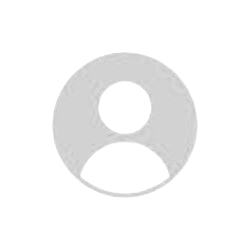
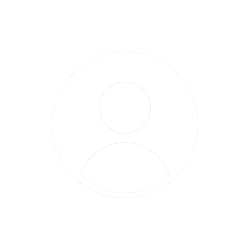
Disabled Rotate Feature

Changed region(s): [[0.196, 0.196, 0.812, 0.812]]

diff --git a/App.tsx b/App.tsx
@@ -6,7 +6,7 @@
  */
 
 import React, { useState, useEffect } from 'react';
-import { SafeAreaView, ScrollView, StatusBar, StyleSheet, Text, TextInput, Button, useColorScheme, View, TouchableOpacity, Image } from 'react-native';
+import { SafeAreaView, ScrollView, StatusBar, StyleSheet, Text, TextInput, Button, useColorScheme, View, TouchableOpacity, Image, Dimensions } from 'react-native';
 import AsyncStorage from '@react-native-async-storage/async-storage';
 
 type SectionProps = {
@@ -151,38 +151,20 @@ function App(): React.JSX.Element {
                 <Text style={styles.greetingText}>Hello {userName}!</Text>
                 <Text style={styles.readyText}>Ready to workout?</Text>
               </View>
-              <Image source={require('./assets/profile.jpg')} style={styles.profilePicture} />
+              <Image source={require('./assets/profile.png')} style={styles.profilePicture} />
             </View>
             <View style={styles.chooseTrainingContainer}>
               <Text style={styles.chooseTrainingText}>Choose the Session</Text>
             </View>
-            <View style={styles.workoutCard}>
+            <TouchableOpacity onPress={() => navigateTo('Running')}>
               <Image source={require('./assets/running.png')} style={styles.workoutImage} />
-              <View style={styles.workoutDetails}>
-                <Text style={styles.workoutCategorie}>Running</Text>
-                <Text style={styles.workoutText}>• Warm-up</Text>
-                <Text style={styles.workoutText}>• Interval Training</Text>
-                <Text style={styles.workoutText}>• Cool-down</Text>
-              </View>
-            </View>
-            <View style={styles.workoutCard}>
+            </TouchableOpacity>
+            <TouchableOpacity onPress={() => navigateTo('Lifting')}>
               <Image source={require('./assets/lifting.png')} style={styles.workoutImage} />
-              <View style={styles.workoutDetails}>
-                <Text style={styles.workoutCategorie}>Lifting</Text>
-                <Text style={styles.workoutText}>• Warm-up</Text>
-                <Text style={styles.workoutText}>• Strength Training</Text>
-                <Text style={styles.workoutText}>• Cool-down</Text>
-              </View>
-            </View>
-            <View style={styles.workoutCard}>
+            </TouchableOpacity>
+            <TouchableOpacity onPress={() => navigateTo('Biking')}>
               <Image source={require('./assets/biking.png')} style={styles.workoutImage} />
-              <View style={styles.workoutDetails}>
-                <Text style={styles.workoutCategorie}>Biking</Text>
-                <Text style={styles.workoutText}>• Warm-up</Text>
-                <Text style={styles.workoutText}>• Interval Training</Text>
-                <Text style={styles.workoutText}>• Cool-down</Text>
-              </View>
-            </View>
+            </TouchableOpacity>
           </View>
         );
     }
@@ -257,6 +239,26 @@ const styles = StyleSheet.create({
     width: 24,
     height: 24,
   },
+  welcomeContainer: {
+    flex: 1,
+    justifyContent: 'center',
+    alignItems: 'center',
+    padding: 16,
+  },
+  welcomeText: {
+    fontSize: 24,
+    marginBottom: 16,
+    color: '#000000',
+  },
+  input: {
+    width: '100%',
+    height: 40,
+    borderColor: '#cccccc',
+    borderWidth: 1,
+    borderRadius: 8,
+    paddingHorizontal: 8,
+    marginBottom: 16,
+  },
   headerContainer: {
     flexDirection: 'row',
     justifyContent: 'space-between',
@@ -300,56 +302,13 @@ const styles = StyleSheet.create({
     fontSize: 16,
     fontWeight: '700',
   },
-  workoutCard: {
-    flexDirection: 'row',
-    marginVertical: 8,
-    padding: 8,
-    borderWidth: 1,
-    borderColor: '#cccccc',
-    borderRadius: 15,
-    backgroundColor: '#ffffff', // Changed to beige color
-  },
   workoutImage: {
-    width: 120,
-    height: 190,
-    marginRight: 16,
-  },
-  workoutDetails: {
-    justifyContent: 'flex-start', // Align text to the top
-    flex: 1,
-    paddingTop: 10, // Add padding to move text higher
-  },
-  workoutText: {
-    color: '#000000',
-    fontSize: 15,
-    marginBottom: 4,
-    marginLeft: 10, // Add margin to move text to the right
-  },
-  workoutCategorie: {
-    color: '#000000',
-    fontSize: 20,
-    marginBottom: 8,
-    marginLeft: 10, // Add margin to move text to the right
-  },
-  welcomeContainer: {
-    flex: 1,
-    justifyContent: 'center',
-    alignItems: 'center',
-    padding: 16,
-  },
-  welcomeText: {
-    fontSize: 24,
-    marginBottom: 16,
-    color: '#000000',
-  },
-  input: {
-    width: '100%',
-    height: 40,
-    borderColor: '#cccccc',
-    borderWidth: 1,
-    borderRadius: 8,
-    paddingHorizontal: 8,
-    marginBottom: 16,
+    width: '125%',
+    height: 200,
+    marginBottom: -25,
+    borderRadius: 15,
+    alignSelf: 'center',
+    transform: [{ scale: 0.8 }], // Scale down to zoom out
   },
 });
 
